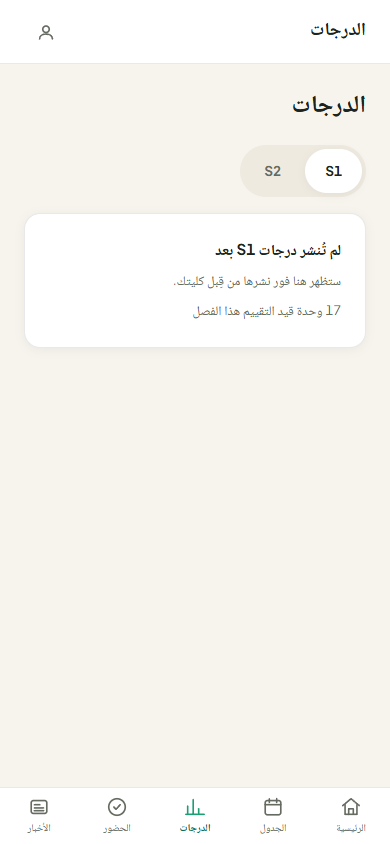
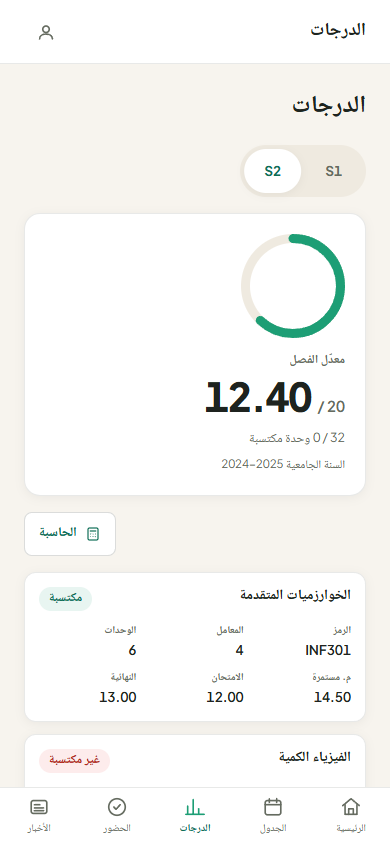
docs(agents): milestone 3 live checks for grades labels and the upload form
Re-reads .heroLabel, .sortButton, .cardLabel, .calcLabel (grades) and
.formLabel (attendance) live in FR and AR against stubbed GET responses,
since the test account has no published grades and no justifiable
absence. Replaces the grades screenshots that showed only the empty
state, and adds the calculator and upload-form screenshots. Records
exactly what was stubbed. No source change.

diff --git a/.claude/missions/2026-11-11-pwa-justification-form-arabic-tracking/PROGRESS.md b/.claude/missions/2026-11-11-pwa-justification-form-arabic-tracking/PROGRESS.md
@@ -71,19 +71,20 @@ html[lang=ar] .schedule-module__Z3P5OW__detailType .schedule-module__Z3P5OW__typ
 ### Computed letter-spacing (`getComputedStyle(el).letterSpacing`)
 These are from the production build (`next start -p 3103`), Chrome, real test account, language set by the `unipocket_lang` cookie. `document.documentElement.lang` was confirmed as `fr` or `ar` for each reading. Origin key:
 - **live**: read from the rendered page with real data.
-- **built CSS**: the class does not render for the test account. Its value was read in Chrome from a synthetic `<html lang>` page that loads the built `.next/static/chunks/*.css` and carries the hashed class names. The live-reachable classes in the "control" rows were measured both ways, and the two methods agreed.
+- **live, stubbed data**: read from the rendered page, with GET responses stubbed by Playwright (see "Real vs stubbed"). These rows were first verified against the built CSS only; the fix round re-read them live.
+- **built CSS**: a cross-check, not a substitute. Its value was read in Chrome from a synthetic `<html lang>` page that loads the built `.next/static/chunks/*.css` and carries the hashed class names. The live-reachable classes in the "control" rows were measured both ways, and the two methods agreed.
 
 | # | Rule | FR | AR | Expected AR | Origin |
 |---|---|---|---|---|---|
 | 1 | attendance `.heroLabel` | 0.48px | normal | normal | live (control: built CSS agrees) |
 | 2 | attendance `.panelDateLabel` | 0.6px | normal | normal | live |
 | 3 | attendance `.noteLabel` | 0.6px | normal | normal | live |
-| 4 | attendance `.formLabel` | 0.6px | normal | normal | built CSS: no absence on the account can be justified, so the form never renders |
+| 4 | attendance `.formLabel` | 0.6px | normal | normal | live, stubbed data (built CSS agrees) |
 | 5 | dashboard `.cardTitle` | 0.48px | normal | normal | live (control: built CSS agrees) |
-| 6 | grades `.heroLabel` | 0.48px | normal | normal | built CSS: no grades published for S1 or S2 |
-| 7 | grades `.sortButton` | 0.345px | normal | normal | built CSS: same reason |
-| 8 | grades `.cardLabel` | 0.6px | normal | normal | built CSS: same reason |
-| 9 | grades `.calcLabel` | 0.66px | normal | normal | built CSS: same reason (calculator trigger absent) |
+| 6 | grades `.heroLabel` | 0.48px | normal | normal | live, stubbed data (built CSS agrees) |
+| 7 | grades `.sortButton` | 0.345px | normal | normal | live, stubbed data (built CSS agrees) |
+| 8 | grades `.cardLabel` | 0.6px | normal | normal | live, stubbed data, 390px (built CSS agrees) |
+| 9 | grades `.calcLabel` | 0.66px | normal | normal | live, stubbed data (built CSS agrees) |
 | 10 | schedule `.dayName` | 0.44px | normal | normal | live |
 | 11 | schedule `.detailLabel` | 0.66px | normal | normal | live |
 | 12 | schedule `.typePill` in CourseDetail (`.detailType`) | 0.72px | normal | normal | live (built CSS agrees) |
@@ -97,19 +98,32 @@ The FR values equal the original em values at each font size (for example 0.04em
 - `ar-attendance-panel-panelDateLabel.png`
 - `ar-attendance-panel-noteLabel.png`: the justification panel
 - `ar-dashboard-card-title.png`
-- `ar-grades-hero-table-header.png` and `ar-grades-phone-cards.png`: these show only the "not published yet" empty state. The test account has no published grades, so the grades hero and table header could not be captured.
+- `ar-grades-hero-table-header.png`: the grades hero and the desktop table header (`.sortButton`), with stubbed data
+- `ar-grades-phone-cards.png`: the phone cards (`.cardLabel`) at 390px, with stubbed data
+- `ar-grades-calculator.png`: the calculator labels (`.calcLabel`), with stubbed data
+- `ar-attendance-upload-form.png`: the open upload form (`.formLabel` on the file label and the note label), with stubbed data
+- The round-1 grades screenshots, which showed only the "not published yet" empty state under misleading names, were overwritten by the first two files above. No empty-state screenshot is kept.
 - `ar-schedule-week-header.png`, `ar-schedule-course-detail.png`, `ar-schedule-daylist.png`
 
 ### Real vs stubbed
-Nothing was stubbed. All data is the live test account, read-only: no form was submitted and nothing on the account changed. Classes the account cannot render were verified against the built CSS, as listed above.
+Round 1 (`scratchpad/m3/check.js`): nothing stubbed. This covers rows 1-3, 5 and 10-13, the DayList pill, and screenshots `ar-attendance-hero`, `ar-attendance-panel-*`, `ar-dashboard-card-title` and `ar-schedule-*`.
+
+Fix round (`scratchpad/m3/check2.js`): rows 4 and 6-9, and the four screenshots marked "stubbed data". The routes were registered on the browser context before anything was opened:
+- **`**/api/backend/student/attendance/*/justification`**: fulfilled locally with a 500 and never continued to the server. It was never hit, because nothing was submitted.
+- **GET `**/api/backend/student/attendance`**: the **live** response, fetched through `route.fetch()`. One field was changed: the first `ABSENT` record with `justificationStatus: null` and no `justificationUrl` got `canSubmitJustification: true`. Everything else, including `band` and `absencesLeft`, is real, so `checkAttendanceContract` passes unchanged.
+- **GET `**/api/backend/student/grades`** (single semester): the **live** response's `semester` and `credits` were kept. Changed: `ccPublished` and `nfPublished` set to true, `gpa` 12.4, `mention` null, and `grades` replaced by a **fixture** of four rows. The rows use the account's own schedule subjects (INF301, PHY301, INF303, INF302, with their FR/AR names) and invented marks. The live API returns `grades: []` while nothing is published. Credits stay live, which is why the hero reads "0 / 32".
+- **GET `**/api/backend/student/grades?allSemesters=true`**: the live response with each semester's `gpa` set to 12.4.
+- **Real**: login, the session, all other endpoints, and every string on screen (all from locales).
+
+Nothing was submitted and nothing on the account changed.
 
 ### Flagged
-- **Test data gap.** The test account has no published grades (S1 or S2) and no absence that can be justified. As a result, grades `.heroLabel`, `.sortButton`, `.cardLabel` and `.calcLabel` and attendance `.formLabel` were checked only against the built CSS, with no live render, and there is no AR screenshot of the grades hero, the table header or the upload form. A test account with published grades would close this gap.
+- **Test data gap.** The test account has no published grades (S1 or S2) and no absence that can still be justified. The five classes that need them were checked live against stubbed GET responses (see "Real vs stubbed"). A test account with published grades and a recent absence would remove the need for stubs.
+- **Port note.** In round 1 my "stop the server" step filtered netstat on `LISTENING`, but the state column is localized on this machine, so the 3103 server kept running until the fix round. That process was mine (`udj-wt-m3/pwa`, same build). It has been stopped; 3101 was not touched.
 - Mission Flag 2 (the CLAUDE.md wording for `html[lang="ar"]`) still stands. I did not edit CLAUDE.md.
 
 ### Could not do
 - Open the PR: `gh` is not installed. The branch is pushed, and the PR text is below.
-- The screenshots listed under "Test data gap" above.
 
 ### PR
 **Title:** `fix(pwa): no letter-spacing on translated labels in Arabic`
@@ -133,9 +147,9 @@ grades and schedule modules. No existing line changes; French is unchanged.
 
 Checks (pwa/ has no CI job): `npm run typecheck` and `npm run build` pass.
 Computed letter-spacing in FR and AR for all 13 rules, plus the DayList pill,
-is in PROGRESS.md. Grades labels and `.formLabel` were verified against the
-built CSS because the test account has no published grades and no justifiable
-absence.
+is in PROGRESS.md. The grades labels and `.formLabel` were read live against
+stubbed GET responses, because the test account has no published grades and no
+justifiable absence. The stubs are listed in PROGRESS.md; nothing was submitted.
 
 🤖 Generated with [Claude Code](https://claude.com/claude-code)
 ```
